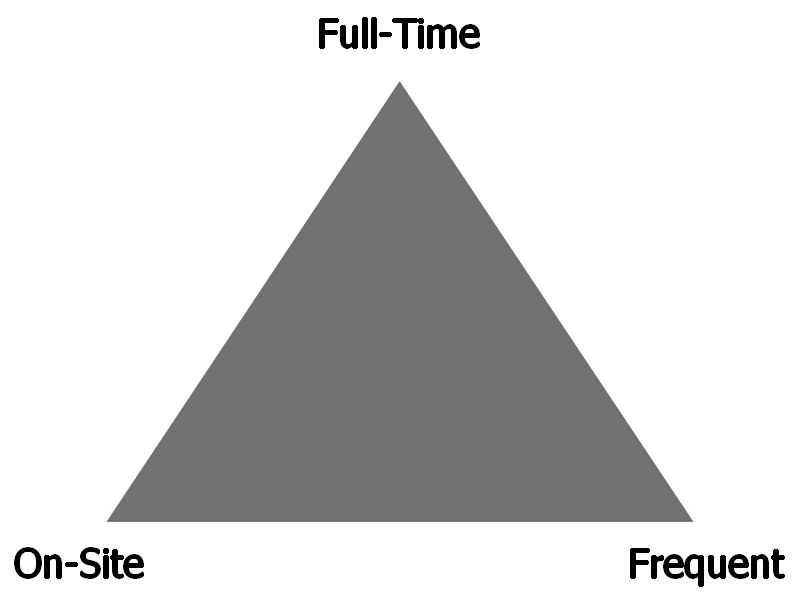
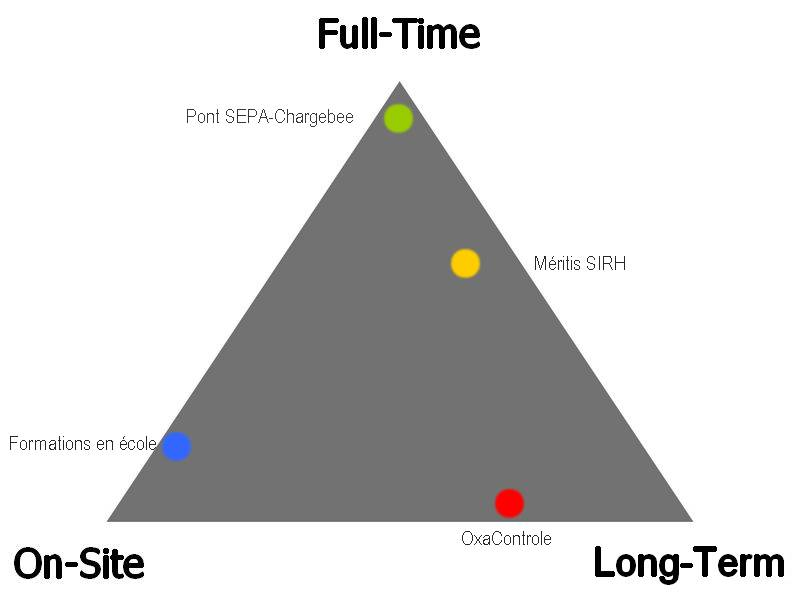
Mise à jour de la FAQ sur la régie

diff --git a/_posts/faq/2022-07-13-regie.html b/_posts/faq/2022-07-13-regie.html
@@ -11,13 +11,30 @@ ref: regie
     Les raisons en sont expliquées sur le blog. <a href="{% link _posts/actualites/2020-09-01-jarrete-le-teletravail.html %}">J'arrête le télétravail.</a>
 </p>
 <p>
-    Pour l'expliquer autrement, <b>plus une mission s'étale dans le temps, plus nous exigerons d'autonomie</b>. Les missions courtes (1 mois ou moins) en présentiel sont possibles, mais au-delà, le présentiel devra se raréfier.<br/>
-    
-    {% include helper_image.html src="/resources/images/content/diagramme_disponibilité.jpg" size=3 float="end" %}
-
-    Comprenez également que nous ne sommes pas des prestataires. L'indépendance n'est pas qu'une affaire de lieu de travail, mais également une autonomie en matière d'horaires et de calendrier. Sauf impératif (réunion, formation, livraison, etc.), nous ne rendons de compte à personne concernant notre agenda, seule la date de livraison que nous avons négociée et les jalons nous sont opposables.<br/>
-    Nous servons en règle générale plusieurs clients à la fois : un seul client en développement (l'activité est prenante), mais une multitude en conseil, formation, maintenance et autres activités. Nous ne pouvons pas nous permettre d'être bloqués à 100% plus de quelques semaines.
+    Pour l'expliquer autrement, <b>plus une mission s'étale dans le temps, plus nous exigerons d'autonomie</b>. Les missions courtes (1 mois ou moins) en présentiel sont possibles, mais au-delà, le présentiel devra se raréfier.
 </p>
 <p>
-	Ce schéma est une bonne représentation de ce qu'il est possible de faire. La mission que vous nous proposez doit être inscrite quelque part dans ce triangle. Être sur place est un impératif ? Vous devrez choisir entre une mission courte à temps plein ou une mission longue, mais en pointillés.
+    Comprenez également que nous ne sommes pas des prestataires. L'indépendance n'est pas qu'une affaire de lieu de travail, mais également une autonomie en matière d'horaires et de calendrier. Sauf impératif (réunion, formation, livraison, etc.), nous ne rendons de compte à personne concernant notre agenda, seule la date de livraison que nous avons négociée et les jalons nous sont opposables.<br/>
+
+    Nous servons en règle générale plusieurs clients à la fois : un seul client en développement (l'activité est prenante), mais une multitude en conseil, formation, maintenance et autres activités. Nous ne pouvons pas nous permettre d'être bloqués à 100% plus de quelques semaines.
 </p>
+    
+{% include helper_image.html src="/resources/images/content/diagramme_disponibilité.jpg" size=5 float="end" %}
+
+<p>
+	Ce schéma est une bonne représentation de ce qu'il est possible de faire. Une mission ne peut pas pas être à la fois plein-temps, sur site et long-terme. Les missions que vous nous proposez doivent s'inscrire dans ce triangle. Par exemple :
+</p>
+<ul>
+        <li>
+            En <strong style="color: #FFCC00;">jaune</strong>, la mission <a href="portfolio.html#meritis">Méritis SIRH</a> était moyenne-durée, occasionnellement sur site, à <sup>2</sup>/<sub>3</sub> temps en raison de formations planifiées sur la période.
+        </li>
+        <li>
+            En <strong style="color: #FF0000;">rouge</strong>, la mission <a href="portfolio.html#oxacontrole">OxaControle</a> dure depuis près de 3 ans à la fois sur chantier et en remote, mais en pointillés très espacés.
+        </li>
+        <li>
+            En <strong style="color: #3366FF;">bleu</strong>, les <a href="portfolio.html#epsi">formations en école</a> sont récurrentes chaque année et presque totalement en présentiel, mais de courte durée (quelques jours à 2 semaines) et à temps partiel (ces journées/semaines sont rarement remplies intégralement).
+        </li>
+        <li>
+            En <strong style="color: #99CC00;">vert</strong>, le développement du <a  href="portfolio.html#albus">Pont SEPA-Chargebee</a> était presque à plein temps pour tenir les délais. Je ne me suis pas déplacé du tout sur site. La mission a duré 3 mois ½ au total.
+        </li>
+</ul>
